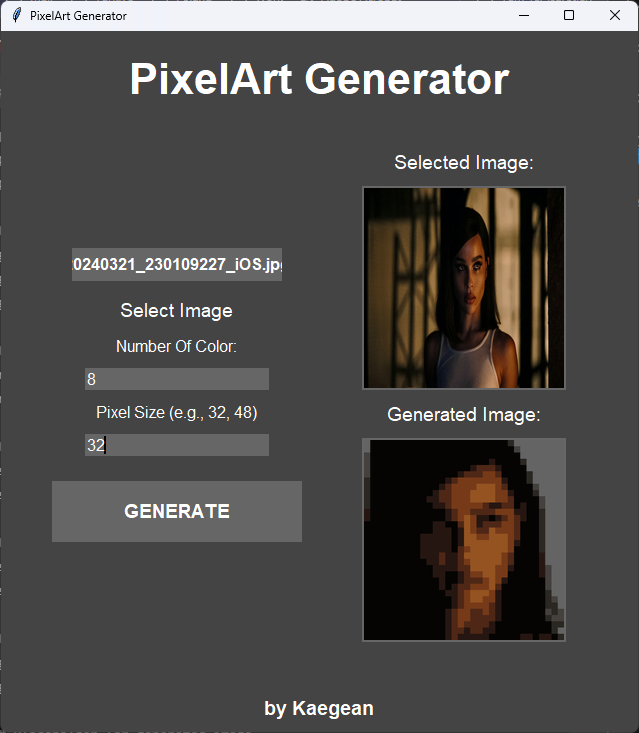
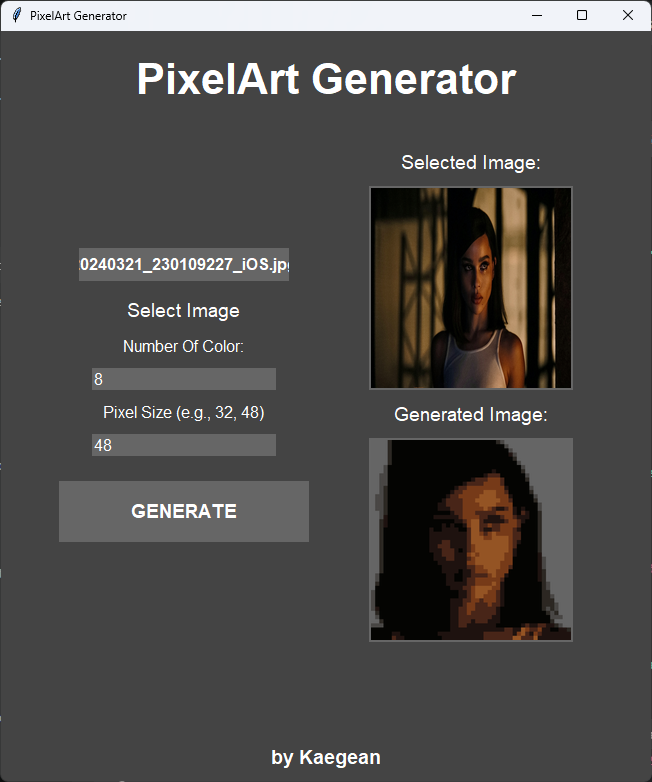
update

diff --git a/other_scripts/pixel_art_gui_new4.py b/other_scripts/pixel_art_gui_new4.py
@@ -1,7 +1,5 @@
 import cv2
 import numpy as np
-import matplotlib.pyplot as plt
-from collections import Counter
 from rembg import remove
 from PIL import Image, ImageTk
 import io
@@ -14,6 +12,32 @@ from tkinter import messagebox
 # Global variable to store the image path
 image_path = None
 
+# Function to detect and crop the head, ensuring the head takes up a max of 60% of the image
+def detect_and_crop_head(image):
+    face_cascade = cv2.CascadeClassifier(cv2.data.haarcascades + 'haarcascade_frontalface_default.xml')
+    gray = cv2.cvtColor(image, cv2.COLOR_BGR2GRAY)
+    faces = face_cascade.detectMultiScale(gray, 1.3, 5)
+
+    if len(faces) == 0:
+        print("No head detected.")
+        return None
+
+    (x, y, w, h) = faces[0]
+    padding = int(0.2 * w)  # Adjust padding to center the head
+    x, y = max(0, x - padding), max(0, y - padding)
+    w, h = w + 2 * padding, h + 2 * padding
+
+    # Calculate maximum size of the cropped head (60% of the image)
+    max_width, max_height = int(image.shape[1] * 0.6), int(image.shape[0] * 0.6)
+    cropped_width, cropped_height = min(w, max_width), min(h, max_height)
+
+    # Ensure head is centered in the image
+    center_x, center_y = x + cropped_width // 2, y + cropped_height // 2
+    crop_x, crop_y = max(0, center_x - cropped_width // 2), max(0, center_y - cropped_height // 2)
+
+    cropped_head = image[crop_y:crop_y + cropped_height, crop_x:crop_x + cropped_width]
+    return cropped_head
+
 # Function to remove the background using rembg
 def remove_background(image_path):
     with open(image_path, 'rb') as input_file:
@@ -22,58 +46,19 @@ def remove_background(image_path):
     img_np = np.array(Image.open(io.BytesIO(output_data)))
     return img_np
 
-# Function to detect and crop the face
-def detect_and_crop_face(image):
-    face_cascade = cv2.CascadeClassifier(cv2.data.haarcascades + 'haarcascade_frontalface_default.xml')
-    gray = cv2.cvtColor(image, cv2.COLOR_RGBA2GRAY)
-    faces = face_cascade.detectMultiScale(gray, 1.3, 5)
-
-    if len(faces) == 0:
-        print("No face detected.")
-        return None
-
-    (x, y, w, h) = faces[0]
-    padding = int(0.3 * w)
-    x, y = max(0, x-padding), max(0, y-padding)
-    w, h = w + 2*padding, h + 2*padding
-
-    cropped_face = image[y:y+h, x:x+w]
-    return cropped_face
-
-# Function to resize the cropped face
+# Function to resize the cropped head
 def resize_to_square(image, size):
-    resized_face = cv2.resize(image, (size, size), interpolation=cv2.INTER_AREA)
-    return resized_face
+    resized_image = cv2.resize(image, (size, size), interpolation=cv2.INTER_AREA)
+    return resized_image
 
-# Function to reduce the color palette using KMeans clustering
+# Improved function to reduce the color palette using KMeans clustering
 def quantize_image(image, num_colors):
-    pixels = image.reshape(-1, 4)
+    pixels = image.reshape(-1, 3)  # Use 3 channels (RGB) for color quantization
     kmeans = KMeans(n_clusters=num_colors, random_state=42).fit(pixels)
     new_colors = kmeans.cluster_centers_.astype(int)
     labels = kmeans.labels_
     quantized_image = new_colors[labels].reshape(image.shape).astype(np.uint8)
     return quantized_image
-
-# Function to find the most frequent color in a given square
-def most_frequent_color(square):
-    pixels = square.reshape(-1, square.shape[2])
-    pixels = [tuple(pixel) for pixel in pixels]
-    color_counter = Counter(pixels)
-    most_common_color = color_counter.most_common(1)[0][0]
-    return most_common_color
-
-# Function to create pixel art
-def create_pixel_art(image, square_size=1):
-    height, width, _ = image.shape
-    pixel_art = np.zeros_like(image)
-
-    for y in range(0, height, square_size):
-        for x in range(0, width, square_size):
-            square = image[y:y+square_size, x:x+square_size]
-            dominant_color = most_frequent_color(square)
-            pixel_art[y:y+square_size, x:x+square_size] = dominant_color
-
-    return pixel_art
 
 # Function to display the processed image in the GUI
 def display_image(image_array, label):
@@ -85,7 +70,6 @@ def display_image(image_array, label):
 
 # Function to save the output image and add a number if file exists
 def save_image(output_path, image_data):
-    # Check if the file already exists, and if so, append a number to the filename
     base, ext = os.path.splitext(output_path)
     counter = 1
     new_output_path = output_path
@@ -97,36 +81,35 @@ def save_image(output_path, image_data):
     resized_image = cv2.resize(image_data, (512, 512), interpolation=cv2.INTER_AREA)
     Image.fromarray(resized_image).save(new_output_path, format='PNG')
     print(f"Output saved to {new_output_path}")
-    return new_output_path  # Return the path of the saved image
+    return new_output_path
 
-# Function to process the image and generate pixel art
+# Function to process the image, remove background, and generate pixel art
 def process_image(image_path, output_path, num_colors, pixel_size):
-    # Step 1: Remove background
-    image_no_bg = remove_background(image_path)
+    # Step 1: Detect and crop the head
+    original_image = cv2.imread(image_path)
+    cropped_head = detect_and_crop_head(original_image)
 
-    # Step 2: Detect and crop face
-    cropped_face = detect_and_crop_face(image_no_bg)
-    if cropped_face is not None:
-        # Step 3: Resize face
-        resized_face = resize_to_square(cropped_face, size=pixel_size)
+    if cropped_head is not None:
+        display_image(cropped_head, selected_image_label)  # Show cropped head in GUI
+        
+        # Step 2: Remove background
+        image_no_bg = remove_background(image_path)
+
+        # Step 3: Resize head
+        resized_image = resize_to_square(cropped_head, pixel_size)
 
         # Step 4: Quantize colors
-        quantized_face = quantize_image(resized_face, num_colors)
+        quantized_image = quantize_image(resized_image, num_colors)
 
-        # Step 5: Create pixel art
-        pixel_art = create_pixel_art(quantized_face, square_size=1)
-
-        # Step 6: Save the output
-        saved_image_path = save_image(output_path, pixel_art)
-
-        # Step 7: Load and display the saved image (512x512)
+        # Step 5: Save the output and show in generated image section
+        saved_image_path = save_image(output_path, quantized_image)
         saved_image = Image.open(saved_image_path)
-        saved_image_resized = saved_image.resize((200, 200), Image.Resampling.LANCZOS)  # Resize for display
+        saved_image_resized = saved_image.resize((200, 200), Image.Resampling.LANCZOS)
         img_tk = ImageTk.PhotoImage(saved_image_resized)
         generated_image_label.config(image=img_tk)
         generated_image_label.image = img_tk  # Keep reference to avoid garbage collection
     else:
-        messagebox.showerror("Error", "No face detected in the image!")
+        messagebox.showerror("Error", "No head detected in the image!")
 
 # Tkinter GUI Setup
 # Function to handle image selection
@@ -136,14 +119,14 @@ def open_file():
     if file_path:
         image_path = file_path  # Save the selected image path
         img = Image.open(file_path)
-        img = img.resize((200, 200), Image.Resampling.LANCZOS)  # Use LANCZOS for resizing in newer Pillow versions
+        img = img.resize((200, 200), Image.Resampling.LANCZOS)
         img_tk = ImageTk.PhotoImage(img)
         selected_image_label.config(image=img_tk)
-        selected_image_label.image = img_tk  # Save reference to avoid garbage collection
-        
+        selected_image_label.image = img_tk
+
         # Get the file name and update the button text
         file_name = os.path.basename(file_path)
-        select_image_button.config(text=file_name)  # Update the button text with the selected image's filename
+        select_image_button.config(text=file_name)
     else:
         messagebox.showerror("Error", "No image selected!")
 
@@ -168,7 +151,7 @@ def generate_art():
 # Initialize the root window
 root = tk.Tk()
 root.title("PixelArt Generator")
-root.geometry("650x750")
+root.geometry("900x600")
 root.config(bg="#444")
 
 # Title label

diff --git a/other_scripts/pixel_art.py b/other_scripts/pixel_art.py
@@ -1,0 +1,128 @@
+import cv2
+import numpy as np
+import matplotlib.pyplot as plt
+from collections import Counter
+from rembg import remove
+from PIL import Image
+import io
+import os
+from sklearn.cluster import KMeans
+
+# Define input and output paths
+image_path = 'images/input_image2.jpg'   # Input image path
+output_path = 'output/pixel_art.png'    # Output path to save the pixel art
+
+# Variables to control the number of colors and pixel size
+num_colors = 8        # Set this to control the number of colors
+pixel_size = 48       # Set this to control the pixel size (e.g., 48x48, 32x32)
+
+# Function to remove the background using rembg
+def remove_background(image_path):
+    with open(image_path, 'rb') as input_file:
+        input_data = input_file.read()
+    output_data = remove(input_data)
+    # Convert output to a transparent image (RGBA) using OpenCV
+    img_np = np.array(Image.open(io.BytesIO(output_data)))
+    return img_np  # Return image with transparency (RGBA format)
+
+# Function to detect and crop the face
+def detect_and_crop_face(image):
+    face_cascade = cv2.CascadeClassifier(cv2.data.haarcascades + 'haarcascade_frontalface_default.xml')
+    gray = cv2.cvtColor(image, cv2.COLOR_RGBA2GRAY)  # Convert to grayscale (for transparent images)
+    faces = face_cascade.detectMultiScale(gray, 1.3, 5)
+
+    if len(faces) == 0:
+        print("No face detected.")
+        return None
+
+    (x, y, w, h) = faces[0]
+    padding = int(0.2 * w)  
+    x, y = max(0, x-padding), max(0, y-padding)
+    w, h = w + 2*padding, h + 2*padding
+
+    cropped_face = image[y:y+h, x:x+w]
+    return cropped_face
+
+# Function to resize the cropped face to the specified grid size
+def resize_to_square(image, size=pixel_size):
+    resized_face = cv2.resize(image, (size, size), interpolation=cv2.INTER_AREA)
+    return resized_face
+
+# Function to reduce the color palette using KMeans clustering (based on num_colors variable)
+def quantize_image(image, num_colors):
+    pixels = image.reshape(-1, 4)  # Keeping the transparency channel
+    kmeans = KMeans(n_clusters=num_colors, random_state=42).fit(pixels)
+    new_colors = kmeans.cluster_centers_.astype(int)
+    labels = kmeans.labels_
+    quantized_image = new_colors[labels].reshape(image.shape).astype(np.uint8)
+    return quantized_image
+
+# Function to find the most frequent color in a given square
+def most_frequent_color(square):
+    pixels = square.reshape(-1, square.shape[2])
+    pixels = [tuple(pixel) for pixel in pixels]
+    color_counter = Counter(pixels)
+    most_common_color = color_counter.most_common(1)[0][0]
+    return most_common_color
+
+# Function to create pixel art by applying dominant color to mini-squares
+def create_pixel_art(image, square_size=1):
+    height, width, _ = image.shape
+    pixel_art = np.zeros_like(image)
+
+    for y in range(0, height, square_size):
+        for x in range(0, width, square_size):
+            square = image[y:y+square_size, x:x+square_size]
+            dominant_color = most_frequent_color(square)
+            pixel_art[y:y+square_size, x:x+square_size] = dominant_color
+
+    return pixel_art
+
+# Function to save the output image with a number if the file already exists
+def save_with_incrementing_filename(output_path, image_data):
+    base_name, ext = os.path.splitext(output_path)
+    counter = 1
+    new_output_path = output_path
+
+    # Check if the file exists and create a new name with a number if necessary
+    while os.path.exists(new_output_path):
+        new_output_path = f"{base_name}_{counter}{ext}"
+        counter += 1
+
+    # Save the image as 512x512
+    resized_image = cv2.resize(image_data, (512, 512), interpolation=cv2.INTER_AREA)
+    Image.fromarray(resized_image).save(new_output_path, format='PNG')
+    print(f"Output saved to {new_output_path}")
+
+# Final function to process the image with background removal, pixelation, and color reduction
+def process_image_with_bg_removal(image_path, output_path, pixel_size=pixel_size):
+    # Step 1: Remove background
+    image_no_bg = remove_background(image_path)
+    
+    # Step 2: Detect and crop face
+    cropped_face = detect_and_crop_face(image_no_bg)
+    if cropped_face is not None:
+        # Step 3: Resize face based on the pixel_size variable
+        resized_face = resize_to_square(cropped_face, size=pixel_size)  # Resize to specified pixel size
+        
+        # Step 4: Apply KMeans quantization with the defined number of colors
+        quantized_face = quantize_image(resized_face, num_colors)
+
+        # Step 5: Create pixel art with block size of 1
+        pixel_art = create_pixel_art(quantized_face, square_size=1)
+
+        # Convert RGBA to RGB for display and saving
+        pixel_art_rgba = cv2.cvtColor(pixel_art, cv2.COLOR_RGB2RGBA)
+        
+        # Display the result
+        plt.imshow(pixel_art_rgba)
+        plt.axis('off')  # Hide axes
+        plt.show()
+        
+        # Save the output image with file name incrementing logic and resized to 512x512
+        save_with_incrementing_filename(output_path, pixel_art_rgba)
+    else:
+        print("Face not detected.")
+
+# Process the image and save the result
+process_image_with_bg_removal(image_path, output_path)

diff --git a/README.md b/README.md
@@ -86,17 +86,21 @@ process_image_with_bg_removal(image_path, output_path)
 The pixel art image will be displayed on your screen, and saved in the `output/` folder. If the file already exists, a new file with a number (e.g., `pixel_art_1.png`) will be created.
 
 ## Example
+**GUI:**
+
+![GUI Image](for_readme/picture_of_gui.png)
+
 Before running the script, you can place an image like this in the `images/` folder:
 
 **Input:**
 
-![Input Image](images/input_image2.jpg)
+![Input Image](for_readme/input.jpg)
 
 **Output:**
 
 After running the script, you will get pixel art output similar to this:
 
-![Output Image](output/pixel_art_12.png)
+![Output Image](for_readme/output.png)
 
 ## How It Works
 
